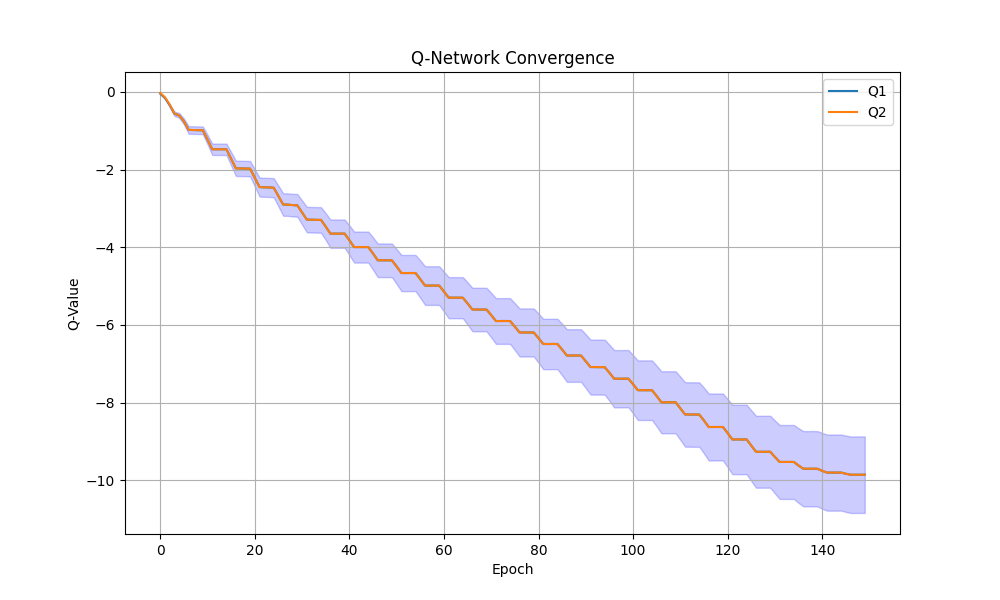
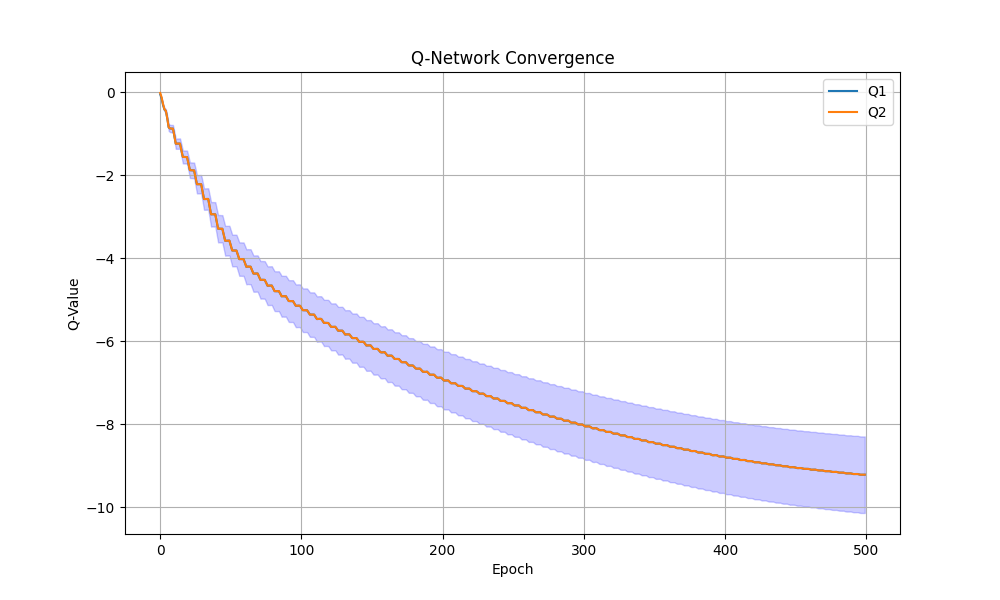
small modifs

diff --git a/typic_SAC.py b/typic_SAC.py
@@ -1,0 +1,142 @@
+import torch
+import torch.nn as nn
+import torch.nn.functional as F
+import torch.optim as optim
+import numpy as np
+import random
+
+class ReplayBuffer:
+    def __init__(self, capacity):
+        self.capacity = capacity
+        self.buffer = []
+        self.position = 0
+
+    def push(self, state, action, reward, next_state, done):
+        if len(self.buffer) < self.capacity:
+            self.buffer.append(None)
+        self.buffer[self.position] = (state, action, reward, next_state, done)
+        self.position = (self.position + 1) % self.capacity
+
+    def sample(self, batch_size):
+        if len(self.buffer) < batch_size:
+            return None
+        batch = random.sample(self.buffer, batch_size)
+        state, action, reward, next_state, done = zip(*batch)
+        return np.stack(state), action, reward, np.stack(next_state), done
+
+    def __len__(self):
+        return len(self.buffer)
+
+class QNetwork(nn.Module):
+    def __init__(self, state_dim, action_dim, hidden_dim=256):
+        super(QNetwork, self).__init__()
+        self.fc1 = nn.Linear(state_dim + action_dim, hidden_dim)
+        self.fc2 = nn.Linear(hidden_dim, hidden_dim)
+        self.fc3 = nn.Linear(hidden_dim, 1)
+
+    def forward(self, state, action):
+        x = torch.cat([state, action], 1)
+        x = F.relu(self.fc1(x))
+        x = F.relu(self.fc2(x))
+        return self.fc3(x)
+
+class PolicyNetwork(nn.Module):
+    def __init__(self, state_dim, action_dim, hidden_dim=256):
+        super(PolicyNetwork, self).__init__()
+        self.fc1 = nn.Linear(state_dim, hidden_dim)
+        self.fc2 = nn.Linear(hidden_dim, hidden_dim)
+        self.mean_linear = nn.Linear(hidden_dim, action_dim)
+        self.log_std_linear = nn.Linear(hidden_dim, action_dim)
+
+    def forward(self, state):
+        x = F.relu(self.fc1(state))
+        x = F.relu(self.fc2(x))
+        mean = self.mean_linear(x)
+        log_std = self.log_std_linear(x)
+        log_std = torch.clamp(log_std, min=-20, max=2)
+        return mean, log_std
+
+    def sample(self, state):
+         mean, log_std = self.forward(state)
+         std = log_std.exp()
+         normal = torch.distributions.Normal(mean, std)
+         x_t = normal.rsample()  # for reparameterization trick (mean + std * N(0,1))
+         action = torch.tanh(x_t)
+         log_prob = normal.log_prob(x_t)
+         # Enforcing Action Bound
+         log_prob -= torch.log(1 - action.pow(2) + 1e-6)
+         log_prob = log_prob.sum(1, keepdim=True)
+         return action, log_prob, mean
+
+class SACAgent:
+    def __init__(self, state_dim, action_dim, lr=3e-4, gamma=0.99, tau=0.005, alpha=0.2):
+        self.gamma = gamma
+        self.tau = tau
+        self.alpha = alpha
+
+        self.q1_net = QNetwork(state_dim, action_dim)
+        self.q2_net = QNetwork(state_dim, action_dim)
+        self.policy_net = PolicyNetwork(state_dim, action_dim)
+        self.target_q1_net = QNetwork(state_dim, action_dim)
+        self.target_q2_net = QNetwork(state_dim, action_dim)
+
+        self.target_q1_net.load_state_dict(self.q1_net.state_dict())
+        self.target_q2_net.load_state_dict(self.q2_net.state_dict())
+
+        self.q1_optimizer = optim.Adam(self.q1_net.parameters(), lr=lr)
+        self.q2_optimizer = optim.Adam(self.q2_net.parameters(), lr=lr)
+        self.policy_optimizer = optim.Adam(self.policy_net.parameters(), lr=lr)
+
+    def select_action(self, state):
+        state = torch.FloatTensor(state).unsqueeze(0)
+        with torch.no_grad():
+            action, _, _ = self.policy_net.sample(state)
+        return action.cpu().numpy()[0]
+
+    def update_parameters(self, memory, batch_size):
+      if len(memory) < batch_size:
+          return
+      state, action, reward, next_state, done = memory.sample(batch_size)
+      state = torch.FloatTensor(state)
+      next_state = torch.FloatTensor(next_state)
+      action = torch.FloatTensor(action)
+      reward = torch.FloatTensor(reward).unsqueeze(1)
+      done = torch.FloatTensor(done).unsqueeze(1)
+
+      with torch.no_grad():
+          next_action, next_log_prob, _ = self.policy_net.sample(next_state)
+          target_q1_value = self.target_q1_net(next_state, next_action)
+          target_q2_value = self.target_q2_net(next_state, next_action)
+          target_min_q = torch.min(target_q1_value, target_q2_value)
+          target_q = reward + (1 - done) * self.gamma * (target_min_q - self.alpha * next_log_prob)
+
+      current_q1 = self.q1_net(state, action)
+      current_q2 = self.q2_net(state, action)
+
+      q1_loss = F.mse_loss(current_q1, target_q)
+      q2_loss = F.mse_loss(current_q2, target_q)
+
+      self.q1_optimizer.zero_grad()
+      q1_loss.backward()
+      self.q1_optimizer.step()
+
+      self.q2_optimizer.zero_grad()
+      q2_loss.backward()
+      self.q2_optimizer.step()
+
+      new_action, log_prob, mean = self.policy_net.sample(state)
+      q1_value = self.q1_net(state, new_action)
+      q2_value = self.q2_net(state, new_action)
+      min_q_new_actions = torch.min(q1_value, q2_value)
+
+      policy_loss = (self.alpha * log_prob - min_q_new_actions).mean()
+
+      self.policy_optimizer.zero_grad()
+      policy_loss.backward()
+      self.policy_optimizer.step()
+
+      for target_param, param in zip(self.target_q1_net.parameters(), self.q1_net.parameters()):
+          target_param.data.copy_(param.data * self.tau + target_param.data * (1.0 - self.tau))
+
+      for target_param, param in zip(self.target_q2_net.parameters(), self.q2_net.parameters()):
+          target_param.data.copy_(param.data * self.tau + target_param.data * (1.0 - self.tau))

diff --git a/SACCQL_training.py b/SACCQL_training.py
@@ -35,6 +35,8 @@ class DiabetesDataset(Dataset):
     def __init__(self, csv_file):
         df = pd.read_csv(csv_file)
         
+        df = df.ffill().bfill()
+        
         # Add explicit glu_raw validation
         if df["glu_raw"].isna().any():
             print("NaN values in glu_raw - filling with forward/backward fill")
@@ -49,7 +51,7 @@ class DiabetesDataset(Dataset):
             print(f"Min: {np.nanmin(glu_raw)}, Max: {np.nanmax(glu_raw)}")
             
         # Handle missing values by forward-filling and backward-filling
-        df = df.ffill().bfill()
+        
         
         # Verify no remaining NaNs
         if df[["glu", "glu_d", "glu_t", "hr", "hr_d", "hr_t", "iob", "hour"]].isna().any().any():
@@ -660,9 +662,8 @@ if __name__ == "__main__":
     args = parser.parse_args()
     
     device = torch.device('cuda' if torch.cuda.is_available() else 'cpu')
-    print(torch.cuda.is_available())
     print(f"Training on device: {device}")
-    print(torch.cuda.FloatTensor())
+
     # Train the agent
     agent = train_sac(
         dataset_path=args.dataset,
@@ -673,7 +674,7 @@ if __name__ == "__main__":
         use_cql=args.use_cql,
         cql_alpha=args.cql_alpha
     )
-    
+
     # Get the timestamp from the most recent directory in training_logs
     training_logs_dir = Path("training_logs")
     if training_logs_dir.exists():

diff --git a/training_analysis/model_readiness.md b/training_analysis/model_readiness.md
@@ -1,17 +1,17 @@
 # Model Readiness Report
 
 ## Training Summary
-- Total Epochs: 150
-- Final Critic Loss: 0.6318
-- Final Actor Loss: 10.1665
-- Final Entropy (alpha): 2.2531
+- Total Epochs: 500
+- Final Critic Loss: 0.4480
+- Final Actor Loss: 9.4418
+- Final Entropy (alpha): 1.3319
 
 ## Readiness Checklist
-- ✅ Critic loss stabilized for last 100 epochs (std=0.0740)
+- ✅ Critic loss stabilized for last 100 epochs (std=0.0357)
 - ✅ alpha > 0.1 maintained in final 20% of training
-- ✅ Action std between 0.2-0.6 (current=0.3478)
-- ❌ Q-values within [-4.5, -0.5] range (Q1=-9.8595, Q2=-9.8600)
-- ✅ <1% difference between final Q1/Q2 values (0.0046308211539661265%)
+- ✅ Action std between 0.2-0.6 (current=0.3100)
+- ❌ Q-values within [-4.5, -0.5] range (Q1=-9.2144, Q2=-9.2140)
+- ✅ <1% difference between final Q1/Q2 values (0.005016805240120359%)
 
 ## Recommendations
 - Adjust reward scaling or critic network architecture
